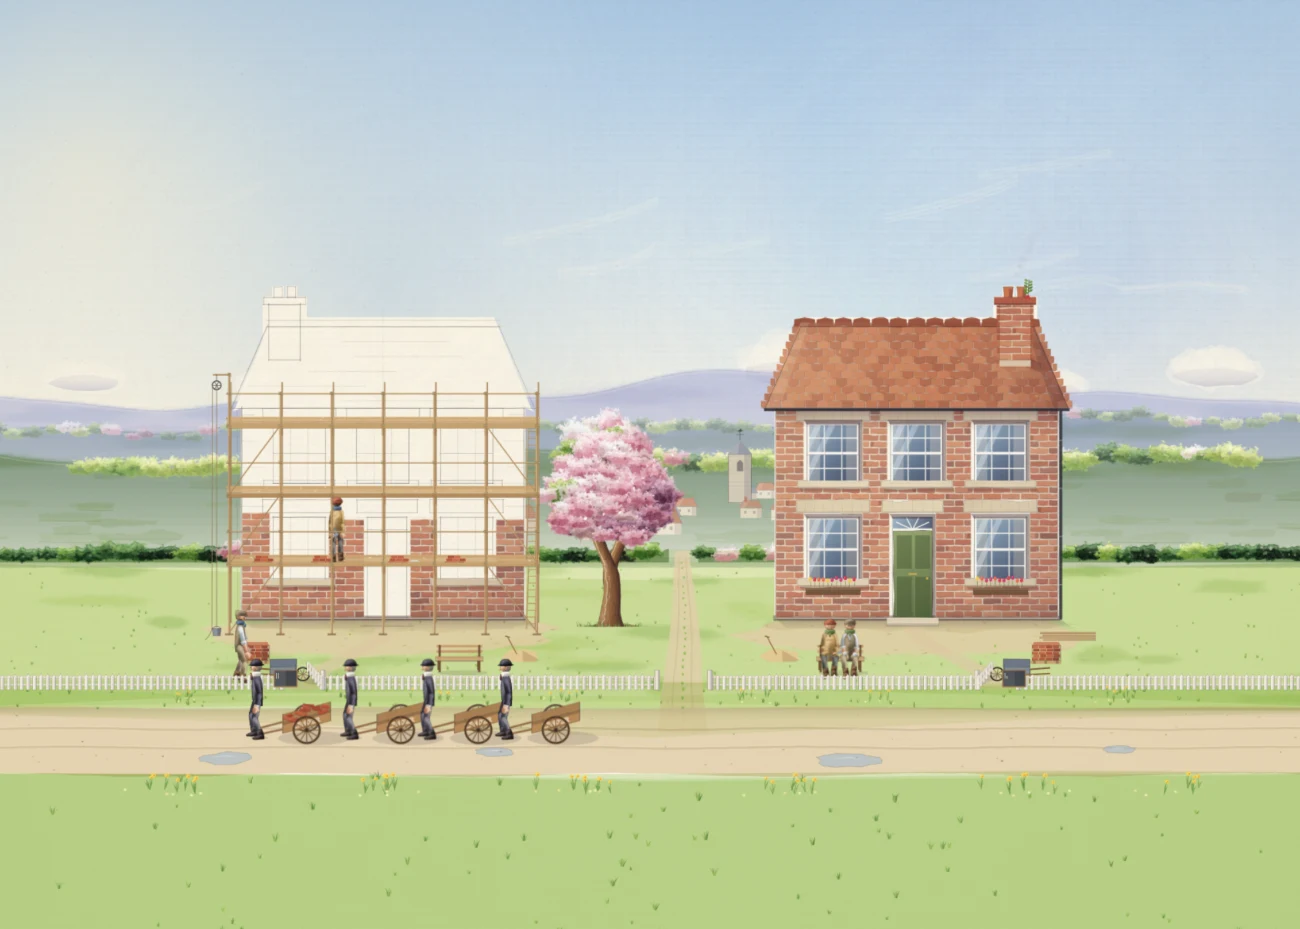
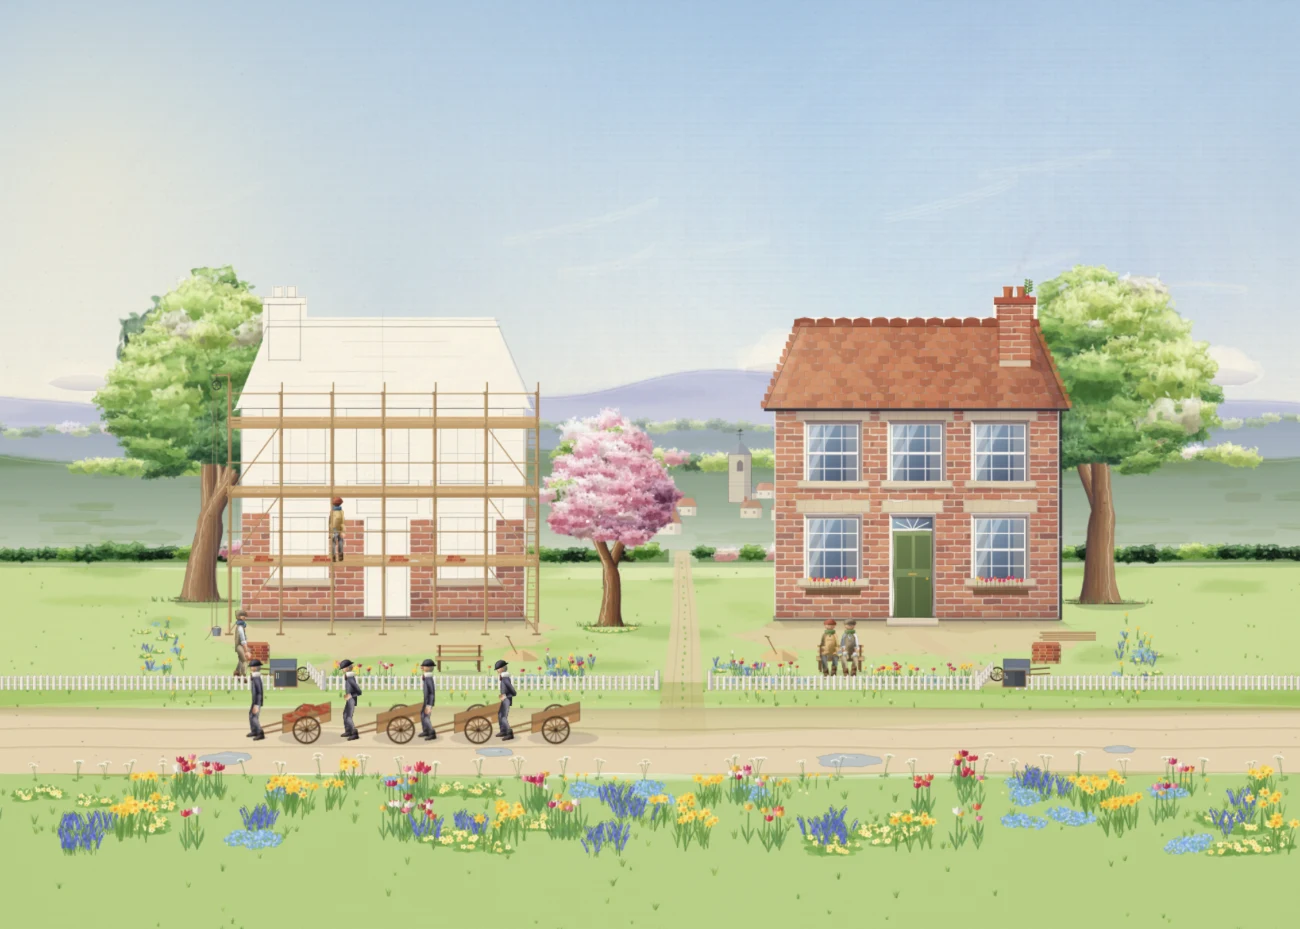
Brick by Brick: a tree at either end of the street, and spring flowers along the verge and round the houses

diff --git a/src/brick/scene/flowers.ts b/src/brick/scene/flowers.ts
@@ -1,0 +1,291 @@
+/**
+ * Spring flowers, painted into the world layer: daffodils, tulips, bluebells, primroses, forget-me-nots and cow
+ * parsley, each a few strokes of transparent colour over an ink-free green, lit from the upper left; planted in drifts
+ * along the near verge (larger the nearer they are) and in beds round the houses: inside the garden fences, beside
+ * each house, and either side of the blossom tree, always clear of the builder's way, the pallet, the hoist, the
+ * bench and the gate.
+ */
+import type { Rand } from '../../scene/prng';
+import { deform, rgba, tracePoly } from '../../scene/watercolor';
+import { ribbon } from '../../river/scene/boatInk';
+import { blobPoly, grassTuft } from '../../river/scene/paint';
+import { BLOSSOM, FENCE_Y, GATE, GROUND_Y, JUNCTION, LANE } from './geom';
+
+const LEAVES = ['#6E9A48', '#86AE56', '#5C8A40', '#7AA24E'];
+
+/** a daffodil: strap leaves, a stem, a nodding six-petalled flower with an orange trumpet */
+export function daffodil(ctx: CanvasRenderingContext2D, rnd: Rand, x: number, y: number, h: number): void {
+  for (let k = 0; k < 3; k++) {
+    ctx.fillStyle = rgba(rnd.pick(LEAVES), 0.75);
+    const tx = x + rnd.range(-0.35, 0.35) * h;
+    ribbon(ctx, [x + rnd.range(-0.5, 0.5), y, (x + tx) / 2, y - h * 0.4, tx, y - h * rnd.range(0.55, 0.85)], h * 0.07, 0.95);
+  }
+  const fx = x + rnd.range(-0.15, 0.25) * h;
+  const fy = y - h;
+  ctx.strokeStyle = 'rgba(96,136,64,0.8)';
+  ctx.lineWidth = h * 0.04;
+  ctx.beginPath();
+  ctx.moveTo(x, y);
+  ctx.quadraticCurveTo(x, y - h * 0.6, fx, fy);
+  ctx.stroke();
+  const r = h * 0.17;
+  ctx.fillStyle = rgba(rnd.pick(['#F6D654', '#F8E070', '#F2CC48']), 0.92);
+  for (let k = 0; k < 6; k++) {
+    const a = (k / 6) * Math.PI * 2 + 0.3;
+    ctx.beginPath();
+    ctx.ellipse(fx + Math.cos(a) * r * 0.6, fy + Math.sin(a) * r * 0.45, r * 0.55, r * 0.3, a, 0, Math.PI * 2);
+    ctx.fill();
+  }
+  ctx.fillStyle = rgba(rnd.pick(['#EC9634', '#F0AE3C']), 0.95);
+  ctx.beginPath();
+  ctx.ellipse(fx + r * 0.25, fy + r * 0.1, r * 0.36, r * 0.3, 0, 0, Math.PI * 2);
+  ctx.fill();
+  ctx.fillStyle = 'rgba(255,250,220,0.5)';
+  ctx.beginPath();
+  ctx.ellipse(fx - r * 0.3, fy - r * 0.2, r * 0.2, r * 0.12, -0.5, 0, Math.PI * 2);
+  ctx.fill();
+}
+
+const TULIPS = ['#D8384A', '#E8644A', '#F2C24A', '#C83A6A', '#F08AA0', '#B8284A', '#F4F0E6'];
+
+/** a tulip: two broad leaves, a straight stem, a closed cup of three petals, lit on its left */
+export function tulip(ctx: CanvasRenderingContext2D, rnd: Rand, x: number, y: number, h: number, col = rnd.pick(TULIPS)): void {
+  for (const s of [-1, 1]) {
+    ctx.fillStyle = rgba(rnd.pick(['#6E9A58', '#7EA866', '#5E8A4C']), 0.82);
+    ribbon(ctx, [x, y, x + s * h * 0.12, y - h * 0.3, x + s * h * 0.2, y - h * rnd.range(0.45, 0.6)], h * 0.09, 0.9);
+  }
+  const fx = x + rnd.range(-0.06, 0.06) * h;
+  const fy = y - h;
+  ctx.strokeStyle = 'rgba(100,140,72,0.85)';
+  ctx.lineWidth = h * 0.045;
+  ctx.beginPath();
+  ctx.moveTo(x, y);
+  ctx.lineTo(fx, fy + h * 0.08);
+  ctx.stroke();
+  const w = h * 0.13;
+  const ph = h * 0.22;
+  ctx.fillStyle = rgba(col, 0.94);
+  tracePoly(ctx, [fx - w, fy - ph * 0.85, fx - w * 0.4, fy - ph * 0.6, fx, fy - ph, fx + w * 0.4, fy - ph * 0.6, fx + w, fy - ph * 0.85, fx + w * 0.95, fy - ph * 0.2, fx, fy + ph * 0.12, fx - w * 0.95, fy - ph * 0.2]);
+  ctx.fill();
+  // the shade on its right, the light lifting off its left
+  ctx.fillStyle = 'rgba(70,20,40,0.22)';
+  tracePoly(ctx, [fx + w * 0.15, fy - ph * 0.7, fx + w, fy - ph * 0.8, fx + w * 0.9, fy - ph * 0.2, fx + w * 0.1, fy + ph * 0.05]);
+  ctx.fill();
+  ctx.fillStyle = 'rgba(255,246,236,0.45)';
+  ctx.beginPath();
+  ctx.ellipse(fx - w * 0.5, fy - ph * 0.5, w * 0.22, ph * 0.28, 0.2, 0, Math.PI * 2);
+  ctx.fill();
+}
+
+/** a clump of bluebells: arching stems hung with little violet-blue bells on one side */
+export function bluebells(ctx: CanvasRenderingContext2D, rnd: Rand, x: number, y: number, h: number): void {
+  for (let k = 0; k < 4; k++) {
+    ctx.fillStyle = rgba(rnd.pick(LEAVES), 0.7);
+    const tx = x + rnd.range(-0.4, 0.4) * h;
+    ribbon(ctx, [x, y, (x + tx) / 2, y - h * 0.25, tx, y - h * 0.4], h * 0.05, 0.95);
+  }
+  const n = rnd.int(2, 4);
+  for (let s = 0; s < n; s++) {
+    const bx = x + rnd.range(-0.25, 0.25) * h;
+    const lean = rnd.range(0.15, 0.35) * h * (rnd.chance(0.5) ? 1 : -1);
+    const top = { x: bx + lean, y: y - h * rnd.range(0.85, 1.05) };
+    ctx.strokeStyle = 'rgba(90,130,70,0.8)';
+    ctx.lineWidth = h * 0.03;
+    ctx.beginPath();
+    ctx.moveTo(bx, y);
+    ctx.quadraticCurveTo(bx, top.y + h * 0.2, top.x, top.y);
+    ctx.stroke();
+    for (let b = 0; b < 6; b++) {
+      const t = 0.35 + (b / 6) * 0.65;
+      const px = bx + (top.x - bx) * t * t;
+      const py = y + (top.y - y) * t;
+      ctx.fillStyle = rgba(rnd.pick(['#5E6ACC', '#6E78D6', '#5260BE', '#7C84DC']), 0.9);
+      ctx.beginPath();
+      ctx.ellipse(px + Math.sign(lean) * h * 0.05, py + h * 0.05, h * 0.045, h * 0.07, 0, 0, Math.PI * 2);
+      ctx.fill();
+    }
+  }
+}
+
+/** a primrose: a rosette of crinkled leaves and a few pale yellow flowers with a deeper eye */
+export function primrose(ctx: CanvasRenderingContext2D, rnd: Rand, x: number, y: number, r: number): void {
+  for (let k = 0; k < 6; k++) {
+    const a = Math.PI + (k / 5) * Math.PI;
+    ctx.fillStyle = rgba(rnd.pick(['#7EA850', '#8CB45C', '#6C9A46']), 0.75);
+    ctx.beginPath();
+    ctx.ellipse(x + Math.cos(a) * r * 1.1, y + Math.sin(a) * r * 0.35, r * 0.8, r * 0.3, a, 0, Math.PI * 2);
+    ctx.fill();
+  }
+  const n = rnd.int(3, 5);
+  for (let f = 0; f < n; f++) {
+    const fx = x + rnd.range(-1.1, 1.1) * r;
+    const fy = y - rnd.range(0.2, 0.7) * r;
+    ctx.fillStyle = rgba(rnd.pick(['#F8EEA0', '#F4E48A', '#FAF2B8']), 0.95);
+    for (let p = 0; p < 5; p++) {
+      const a = (p / 5) * Math.PI * 2;
+      ctx.beginPath();
+      ctx.ellipse(fx + Math.cos(a) * r * 0.22, fy + Math.sin(a) * r * 0.16, r * 0.2, r * 0.15, a, 0, Math.PI * 2);
+      ctx.fill();
+    }
+    ctx.fillStyle = 'rgba(232,160,60,0.9)';
+    ctx.beginPath();
+    ctx.arc(fx, fy, r * 0.08, 0, Math.PI * 2);
+    ctx.fill();
+  }
+}
+
+/** a low mound of forget-me-nots: a haze of tiny sky-blue flowers over soft green */
+export function forgetMeNots(ctx: CanvasRenderingContext2D, rnd: Rand, x: number, y: number, r: number): void {
+  ctx.fillStyle = rgba('#7EA858', 0.5);
+  tracePoly(ctx, deform(blobPoly(x, y - r * 0.35, r, r * 0.45, rnd, 12, 0.2), rnd, 2, 0.08));
+  ctx.fill();
+  for (let i = 0; i < r * 5; i++) {
+    const a = rnd.range(0, Math.PI * 2);
+    const d = Math.sqrt(rnd.next());
+    ctx.fillStyle = rgba(rnd.pick(['#8CB8EC', '#9EC4F0', '#7AA8E2', '#B8D4F4']), 0.95);
+    ctx.beginPath();
+    ctx.arc(x + Math.cos(a) * r * d, y - r * 0.4 + Math.sin(a) * r * 0.45 * d, r * 0.07 + 0.25, 0, Math.PI * 2);
+    ctx.fill();
+  }
+  ctx.fillStyle = 'rgba(248,226,120,0.8)';
+  for (let i = 0; i < r * 1.2; i++) ctx.fillRect(x + rnd.range(-r, r) * 0.8, y - r * 0.4 + rnd.range(-r, r) * 0.35, 0.3, 0.3);
+}
+
+/** cow parsley: a tall stem and lace-white umbels, airy at the verge's edge */
+export function cowParsley(ctx: CanvasRenderingContext2D, rnd: Rand, x: number, y: number, h: number): void {
+  const heads = rnd.int(2, 3);
+  for (let k = 0; k < heads; k++) {
+    const tx = x + rnd.range(-0.25, 0.25) * h;
+    const ty = y - h * rnd.range(0.75, 1);
+    ctx.strokeStyle = 'rgba(110,140,80,0.75)';
+    ctx.lineWidth = h * 0.02;
+    ctx.beginPath();
+    ctx.moveTo(x, y);
+    ctx.quadraticCurveTo(x + (tx - x) * 0.3, y - h * 0.5, tx, ty);
+    ctx.stroke();
+    const R = h * rnd.range(0.12, 0.17);
+    for (let u = 0; u < 9; u++) {
+      const a = Math.PI + (u / 8) * Math.PI;
+      const ux = tx + Math.cos(a) * R;
+      const uy = ty + Math.sin(a) * R * 0.45 - R * 0.15;
+      ctx.strokeStyle = 'rgba(120,150,90,0.5)';
+      ctx.lineWidth = h * 0.008;
+      ctx.beginPath();
+      ctx.moveTo(tx, ty + R * 0.2);
+      ctx.lineTo(ux, uy);
+      ctx.stroke();
+      ctx.fillStyle = 'rgba(252,250,240,0.95)';
+      for (let d = 0; d < 4; d++) {
+        ctx.beginPath();
+        ctx.arc(ux + rnd.range(-1, 1) * R * 0.15, uy - rnd.range(0, 1) * R * 0.12, R * 0.09, 0, Math.PI * 2);
+        ctx.fill();
+      }
+    }
+  }
+  for (let k = 0; k < 3; k++) {
+    ctx.fillStyle = rgba(rnd.pick(LEAVES), 0.6);
+    ctx.beginPath();
+    ctx.ellipse(x + rnd.range(-0.15, 0.15) * h, y - h * rnd.range(0.05, 0.2), h * 0.1, h * 0.05, rnd.range(-0.5, 0.5), 0, Math.PI * 2);
+    ctx.fill();
+  }
+}
+
+type Kind = 'daffodil' | 'tulip' | 'bluebell' | 'primrose' | 'forget' | 'parsley';
+
+/** one flower of a kind at a place, at a size for its depth (k) */
+function plant(ctx: CanvasRenderingContext2D, rnd: Rand, kind: Kind, x: number, y: number, k: number): void {
+  switch (kind) {
+    case 'daffodil':
+      return daffodil(ctx, rnd, x, y, 12 * k * rnd.range(0.85, 1.15));
+    case 'tulip':
+      return tulip(ctx, rnd, x, y, 13 * k * rnd.range(0.85, 1.15));
+    case 'bluebell':
+      return bluebells(ctx, rnd, x, y, 10 * k * rnd.range(0.85, 1.15));
+    case 'primrose':
+      return primrose(ctx, rnd, x, y, 3.2 * k * rnd.range(0.85, 1.15));
+    case 'forget':
+      return forgetMeNots(ctx, rnd, x, y, 5 * k * rnd.range(0.85, 1.2));
+    case 'parsley':
+      return cowParsley(ctx, rnd, x, y, 26 * k * rnd.range(0.85, 1.15));
+  }
+}
+
+/** a size for depth: the nearer, the larger */
+const kAt = (y: number): number => 0.75 + (y - 470) * 0.0042;
+
+/** a bed of dug earth with a mix of flowers in it, planted back to front */
+function bed(ctx: CanvasRenderingContext2D, rnd: Rand, x0: number, x1: number, y0: number, y1: number, kinds: Kind[], n: number, soil = true, size = 1.15): void {
+  if (soil) {
+    const cx = (x0 + x1) / 2;
+    const cy = (y0 + y1) / 2 + 1;
+    ctx.fillStyle = rgba('#A88A64', 0.22);
+    tracePoly(ctx, deform(blobPoly(cx, cy, (x1 - x0) / 2 + 2, (y1 - y0) / 2 + 1.5, rnd, 18, 0.1), rnd, 2, 0.04));
+    ctx.fill();
+  }
+  const pts: Array<{ x: number; y: number; kind: Kind }> = [];
+  for (let i = 0; i < n; i++) pts.push({ x: rnd.range(x0, x1), y: rnd.range(y0, y1), kind: rnd.pick(kinds) });
+  pts.sort((a, b) => a.y - b.y);
+  for (const p of pts) plant(ctx, rnd, p.kind, p.x, p.y, kAt(p.y) * size);
+}
+
+/** the beds round both houses (house A's side; house B's is its mirror image) */
+export function paintBeds(ctx: CanvasRenderingContext2D, rnd: Rand): void {
+  for (const id of ['a', 'b'] as const) {
+    const m = (x: number) => (id === 'a' ? x : 1000 - x);
+    const span = (a: number, b: number): [number, number] => [Math.min(m(a), m(b)), Math.max(m(a), m(b))];
+    const gate = GATE[id];
+    const g0 = Math.min(gate.x0, gate.x1);
+    const g1 = Math.max(gate.x0, gate.x1);
+    // along the inside of the garden fence, either side of the path from the gate (clear of the bench and the sand)
+    const [a0, a1] = span(196, 296);
+    if (a0 > g1 || a1 < g0) bed(ctx, rnd, a0, a1, FENCE_Y - 9, FENCE_Y - 2, ['tulip', 'tulip', 'forget', 'daffodil'], 40);
+    const [b0, b1] = span(344, 398);
+    bed(ctx, rnd, b0, b1, FENCE_Y - 9, FENCE_Y - 2, ['tulip', 'primrose', 'forget'], 22);
+    // beside the house, beyond the hoist, at the outer edge of the garden
+    const [c0, c1] = span(14, 56);
+    bed(ctx, rnd, c0, c1, GROUND_Y + 6, FENCE_Y - 4, ['bluebell', 'primrose', 'daffodil', 'forget'], 30, false);
+  }
+  // either side of the blossom tree (clear of the road), and a ring of primroses round its foot
+  const roadL = JUNCTION.x - 22;
+  bed(ctx, rnd, 400, Math.min(446, roadL - 30), FENCE_Y - 22, FENCE_Y - 4, ['tulip', 'bluebell', 'forget', 'daffodil'], 26, false);
+  bed(ctx, rnd, JUNCTION.x + 30, 606, FENCE_Y - 22, FENCE_Y - 4, ['tulip', 'bluebell', 'forget', 'primrose'], 24, false);
+  for (let i = 0; i < 9; i++) {
+    const a = Math.PI * (0.05 + (i / 8) * 0.9);
+    primrose(ctx, rnd, BLOSSOM.x + Math.cos(a) * 22, BLOSSOM.y + 2 + Math.sin(a) * 4, 2.6);
+  }
+}
+
+/** the near verge below the lane: drifts of flowers all along it, larger toward us, cow parsley at the back */
+export function paintForeground(ctx: CanvasRenderingContext2D, rnd: Rand, x0: number, x1: number, yBottom: number): void {
+  const top = LANE.y1 + 3;
+  // tall cow parsley along the lane's edge first (it stands behind the lower flowers)
+  for (let x = x0; x < x1; x += rnd.range(22, 46)) {
+    if (Math.abs(x - JUNCTION.x) < 26) continue;
+    cowParsley(ctx, rnd, x, top + rnd.range(0, 4), 22 * rnd.range(0.85, 1.2));
+  }
+  // drifts: each a run of one or two kinds, planted in tight clumps so they read as plantings rather than confetti
+  const kinds: Kind[][] = [['daffodil'], ['tulip', 'tulip', 'forget'], ['bluebell', 'primrose'], ['daffodil', 'primrose'], ['tulip'], ['forget', 'bluebell']];
+  let x = x0;
+  let i = 0;
+  while (x < x1) {
+    const w = rnd.range(50, 90);
+    const ks = kinds[i++ % kinds.length]!;
+    const pts: Array<{ x: number; y: number; kind: Kind }> = [];
+    const clumps = Math.round(w / 14);
+    for (let c = 0; c < clumps; c++) {
+      const cx = x + rnd.range(0, w);
+      const cy = rnd.range(top + 8, Math.min(yBottom, top + 70));
+      const kind = rnd.pick(ks);
+      const n = rnd.int(4, 8);
+      const r = 4 + (cy - top) * 0.12;
+      for (let j = 0; j < n; j++) pts.push({ x: cx + rnd.range(-1, 1) * r * 1.6, y: cy + rnd.range(-1, 1) * r * 0.5, kind });
+    }
+    pts.sort((a, b) => a.y - b.y);
+    for (const p of pts) {
+      if (Math.abs(p.x - JUNCTION.x) < 20 && p.y < top + 10) continue;
+      plant(ctx, rnd, p.kind, p.x, p.y, kAt(p.y) * 1.45);
+    }
+    for (let j = 0; j < 5; j++) grassTuft(ctx, x + rnd.range(0, w), rnd.range(top + 8, top + 60), rnd.range(6, 11), rnd, 1, ['#9DC25C', '#6E9A48', '#B6D26A']);
+    x += w + rnd.range(-10, 6);
+  }
+}

diff --git a/src/brick/scene/world.ts b/src/brick/scene/world.ts
@@ -13,7 +13,8 @@ import { SoftLayer, bloom, blobPoly, flowerDab, grassTuft } from '../../river/sc
 import { mix, ribbon } from '../../river/scene/boatInk';
 import { FENCE_Y, GATE, GROUND_Y, HEDGE_Y, HOUSE, JUNCTION, LANE, ROAD_FAR } from './geom';
 import { silhouette, PAPER } from './housePaint';
-import { drawClump, springSprites } from './springArt';
+import { drawClump, laySpringTree, renderSpringTree, springSprites, type SpringTree } from './springArt';
+import { daffodil, paintBeds, paintForeground } from './flowers';
 import type { Camera } from './layout';
 import { LOANS } from '../types';
 import type { Sprites } from '../../scene/sprites';
@@ -32,6 +33,12 @@ interface View {
 }
 
 const tick = (): Promise<void> => new Promise<void>((r) => setTimeout(r, 0));
+
+/** the trees at either end of the street (their trunks stand behind the houses' outer corners) */
+const SIDE_TREES: SpringTree[] = [
+  { seed: 5203, x: 70, y: 446, k: 0.56, m: 1, kit: 'leaf', haze: 0.04 },
+  { seed: 5309, x: 930, y: 448, k: 0.58, m: 1, kit: 'leaf', haze: 0.04, flip: true },
+];
 
 export const ridgeFar = (x: number): number => 246 + 14 * Math.sin(x / 160 + 0.8) + 7 * Math.sin(x / 67 + 2.1) + 3 * Math.sin(x / 31);
 export const ridgeMid = (x: number): number => 276 + 9 * Math.sin(x / 120 + 2.4) + 5 * Math.sin(x / 53 + 0.4) + 2 * Math.sin(x / 26);
@@ -85,11 +92,26 @@ export async function buildWorld(cam: Camera, check: () => boolean): Promise<Wor
   await tick();
   if (!check()) return null;
   paintPlots(ctx, rnd, v);
+  // a tree in fresh leaf at either end of the street, framing it (behind the houses: their outlines are reserved)
+  for (const t of SIDE_TREES) {
+    const r = await renderSpringTree(t, A, A > 1.6 ? 1.4 : 1, tick, check);
+    if (!r || !check()) return null;
+    ctx.save();
+    ctx.globalCompositeOperation = 'multiply';
+    ctx.fillStyle = 'rgba(70,90,60,0.22)';
+    ctx.beginPath();
+    ctx.ellipse(t.x + 10, t.y + 2, 34, 5, 0, 0, Math.PI * 2);
+    ctx.fill();
+    ctx.restore();
+    laySpringTree(ctx, t, r, A);
+  }
+  paintBeds(ctx, new Rand(51515));
   paintRoad(ctx, rnd);
   paintLane(ctx, rnd, v);
   await tick();
   if (!check()) return null;
   paintVerges(ctx, rnd, v);
+  paintForeground(ctx, new Rand(61616), v.x0, v.x1, v.y1);
   paintShadows(ctx);
 
   // the houses are reserved: their outlines are left as paper for the pencil drawings
@@ -542,39 +564,6 @@ function paintLane(ctx: CanvasRenderingContext2D, rnd: Rand, v: View): void {
 /** the two ruts along the lane (the carts' wheels run in them) */
 export const CART_RUT_A = 568;
 export const CART_RUT_B = 586;
-
-function daffodil(ctx: CanvasRenderingContext2D, rnd: Rand, x: number, y: number, h: number): void {
-  // strap leaves, a stem, a nodding six-petalled flower with an orange trumpet
-  for (let k = 0; k < 3; k++) {
-    ctx.fillStyle = rgba(rnd.pick(['#6E9A48', '#86AE56', '#5C8A40']), 0.75);
-    const tx = x + rnd.range(-0.35, 0.35) * h;
-    ribbon(ctx, [x + rnd.range(-0.5, 0.5), y, (x + tx) / 2, y - h * 0.4, tx, y - h * rnd.range(0.55, 0.85)], h * 0.07, 0.95);
-  }
-  const fx = x + rnd.range(-0.15, 0.25) * h;
-  const fy = y - h;
-  ctx.strokeStyle = 'rgba(96,136,64,0.8)';
-  ctx.lineWidth = h * 0.04;
-  ctx.beginPath();
-  ctx.moveTo(x, y);
-  ctx.quadraticCurveTo(x, y - h * 0.6, fx, fy);
-  ctx.stroke();
-  const r = h * 0.17;
-  ctx.fillStyle = 'rgba(246,214,84,0.92)';
-  for (let k = 0; k < 6; k++) {
-    const a = (k / 6) * Math.PI * 2 + 0.3;
-    ctx.beginPath();
-    ctx.ellipse(fx + Math.cos(a) * r * 0.6, fy + Math.sin(a) * r * 0.45, r * 0.55, r * 0.3, a, 0, Math.PI * 2);
-    ctx.fill();
-  }
-  ctx.fillStyle = 'rgba(236,150,52,0.95)';
-  ctx.beginPath();
-  ctx.ellipse(fx + r * 0.25, fy + r * 0.1, r * 0.36, r * 0.3, 0, 0, Math.PI * 2);
-  ctx.fill();
-  ctx.fillStyle = 'rgba(255,250,220,0.5)';
-  ctx.beginPath();
-  ctx.ellipse(fx - r * 0.3, fy - r * 0.2, r * 0.2, r * 0.12, -0.5, 0, Math.PI * 2);
-  ctx.fill();
-}
 
 function paintVerges(ctx: CanvasRenderingContext2D, rnd: Rand, v: View): void {
   // the near verge below the lane, to the bottom of the picture

diff --git a/docs/BRICK_SPEC.md b/docs/BRICK_SPEC.md
@@ -177,7 +177,8 @@ the scene (statement month; hidden while the panel is open, as the vine). Text o
   crew's contract).
 - Engine and app: src/brick/engine/*, src/brick/app/* (store, loop, notes, text, ui), src/brick/main.ts,
   brick-by-brick.html, src/styles/brick.css; tests/brick/*, tests/e2e/brick.spec.ts.
-- Scene: index.ts (the orchestrator), layout.ts (camera), sky.ts, world.ts, springArt.ts (spring and blossom trees),
+- Scene: index.ts (the orchestrator), layout.ts (camera), sky.ts, world.ts, flowers.ts (the beds and the near verge),
+  springArt.ts (the blossom tree and the two at either end of the street),
   housePlan.ts (every brick, tile and pot in laying order), housePaint.ts and houseView.ts (the house three ways and
   its laid canvas), scaffold.ts, props.ts, finish.ts (topping out, smoke, tulips, petals), carts.ts (the queues),
   cache.ts.
